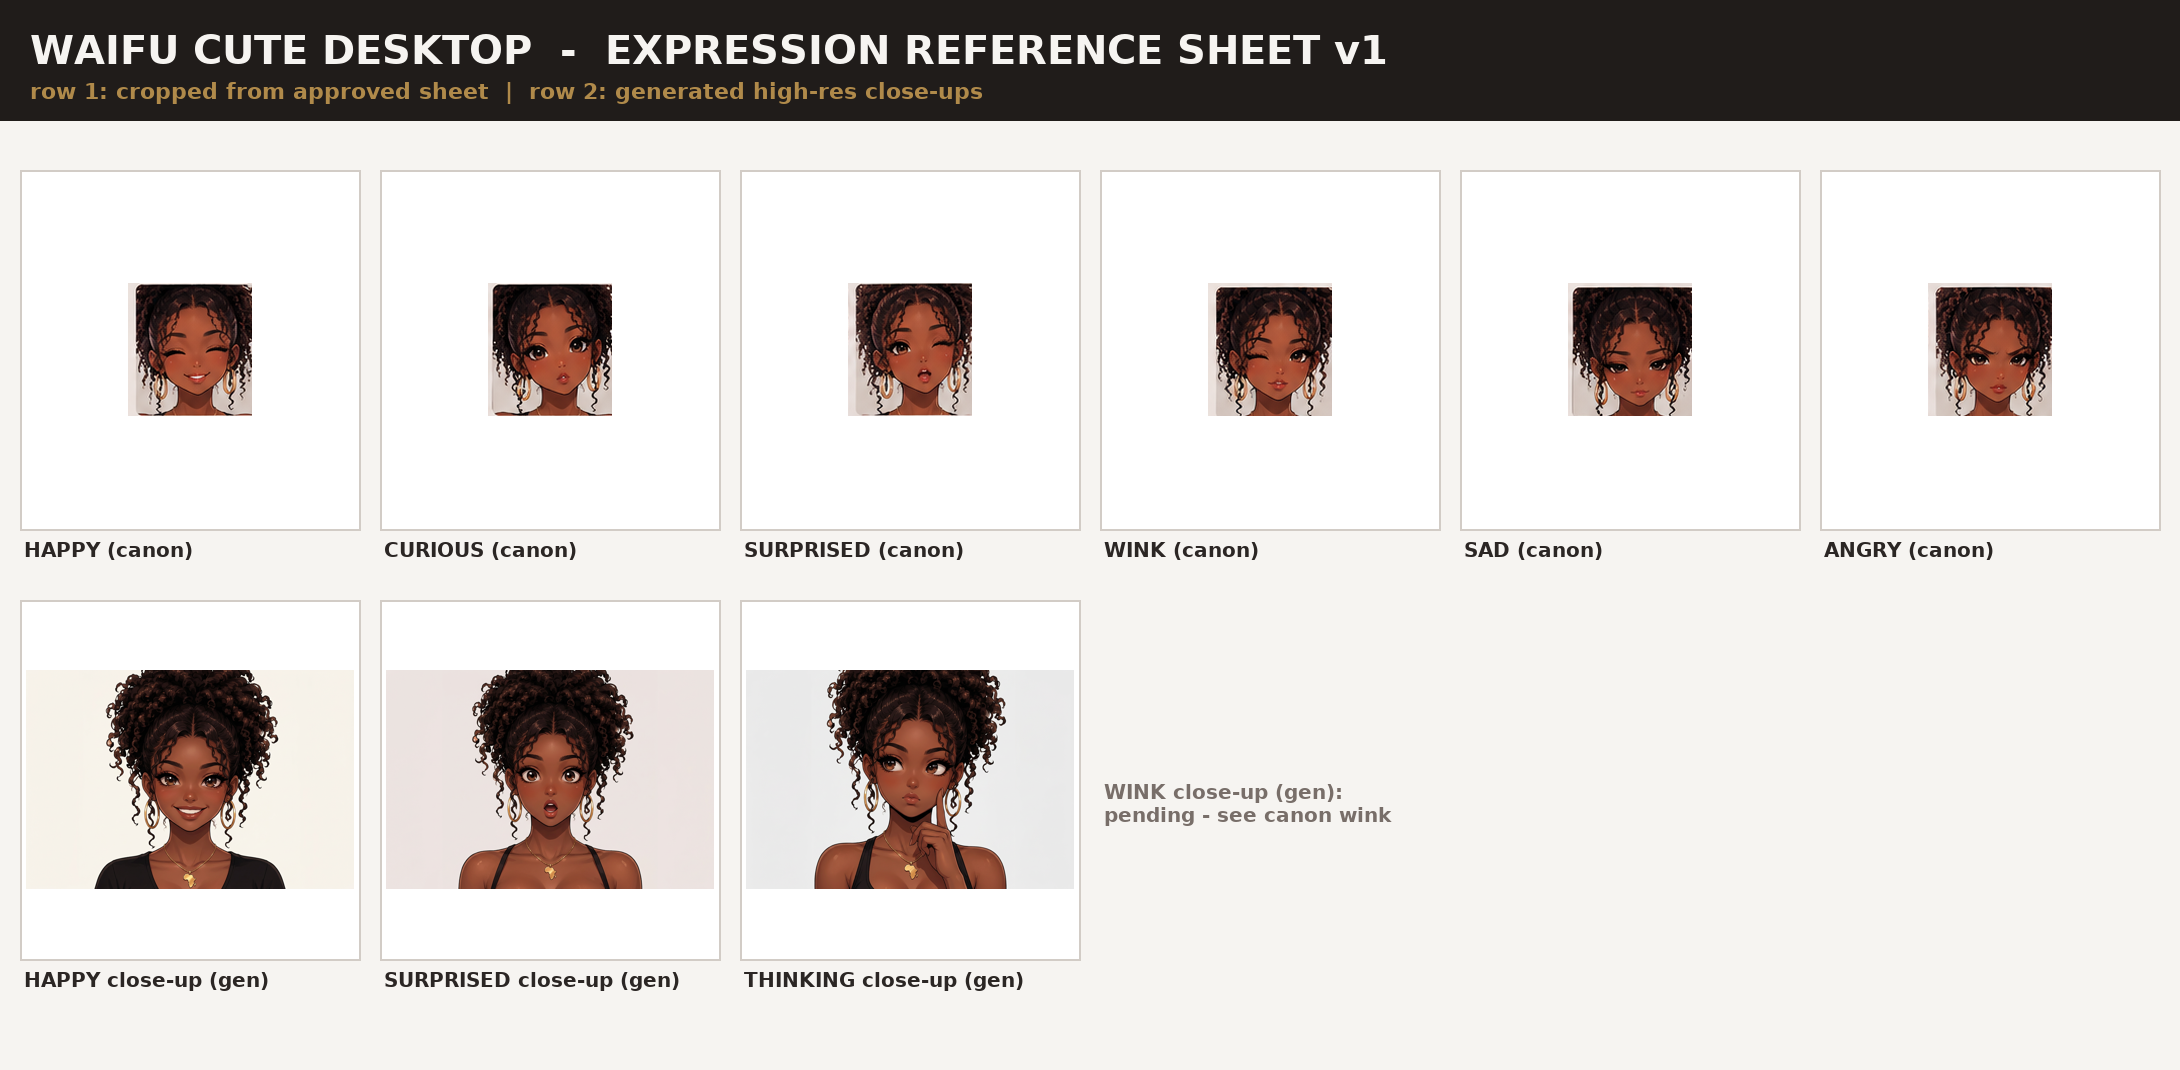
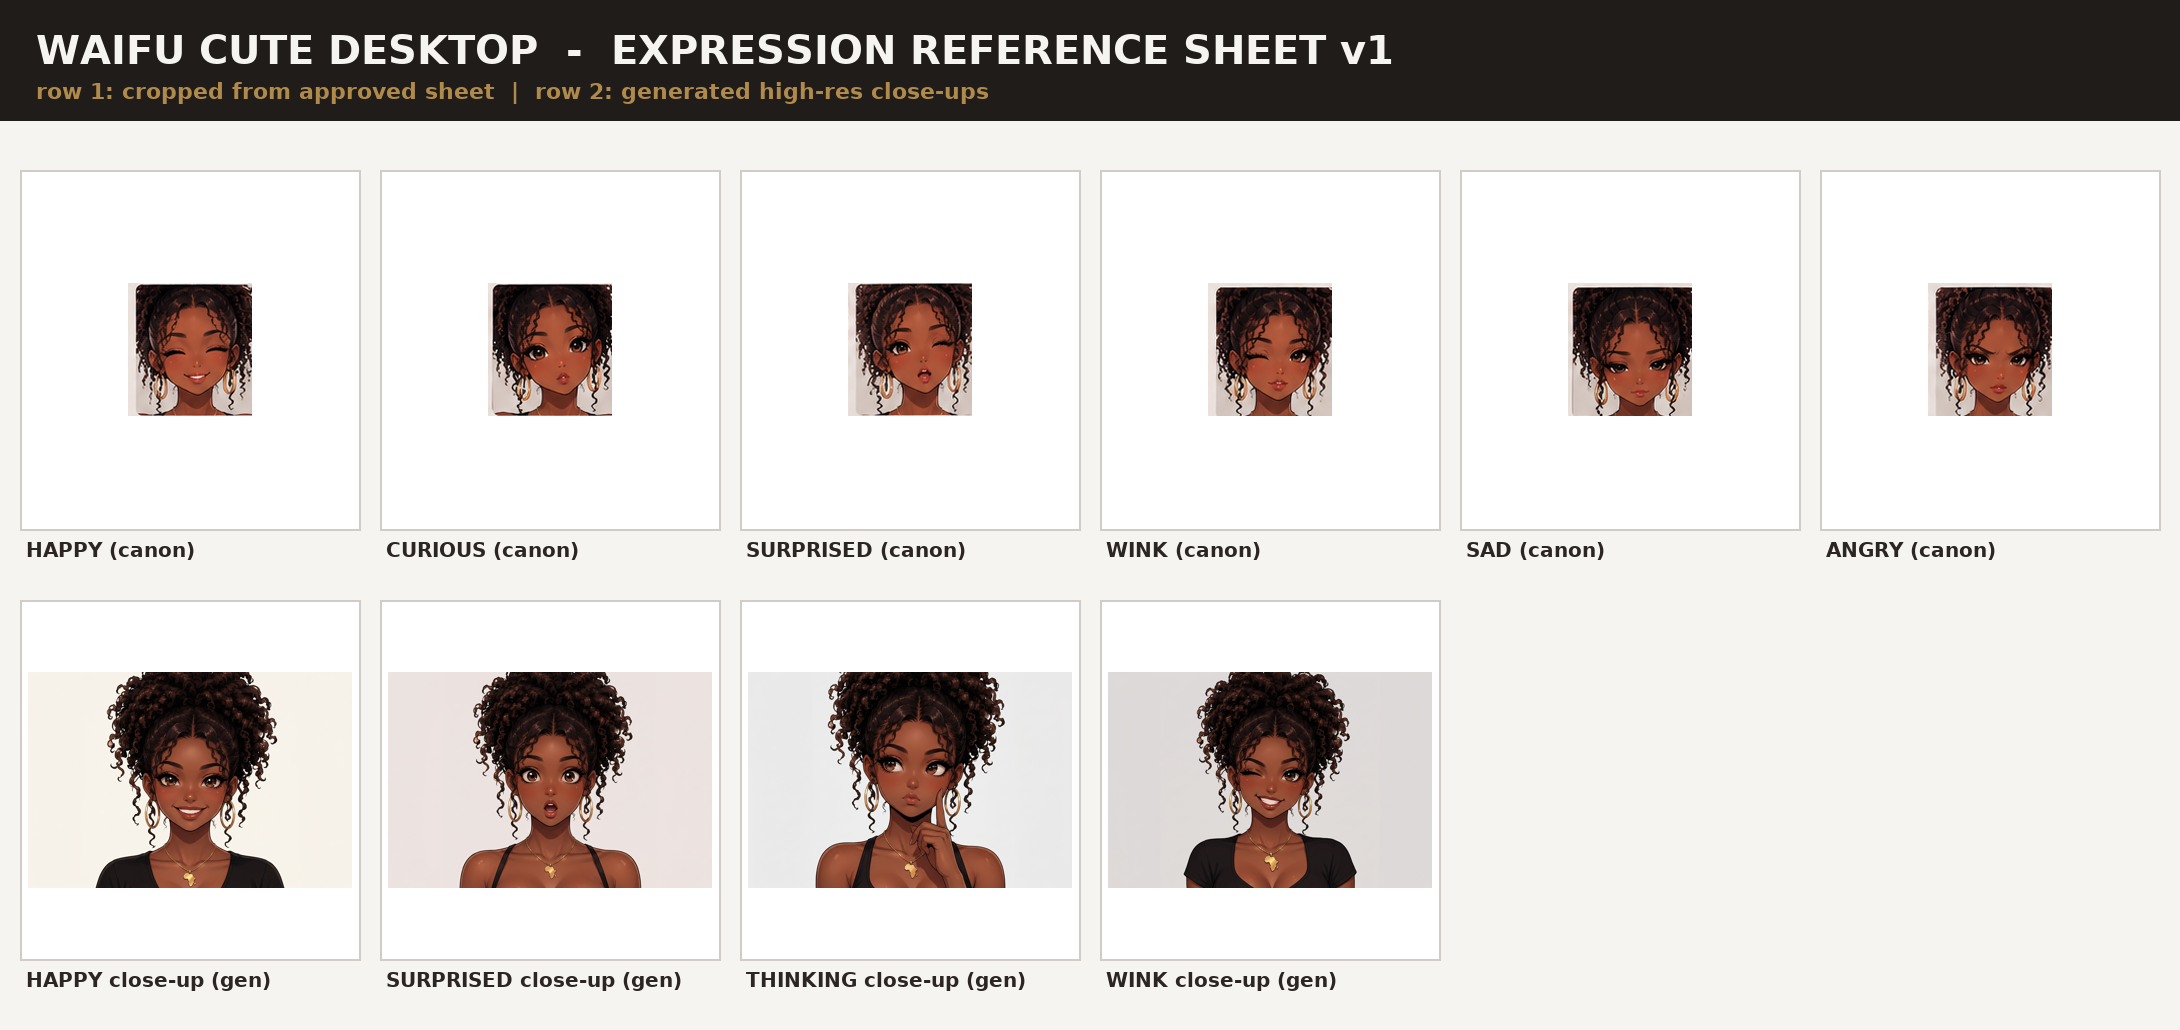
Expressions v2: high-res wink close-up, A/I/U/E/O viseme art references, unified sheet composer
- expression_wink_closeup.png completes the four high-res close-ups
- viseme_A/I/U/E/O.png + viseme_reference_sheet.png: mouth-shape art guidance for the talk animation (rig visemes remain Editor work)
- tools/compose_sheets.py now builds pose, expression and viseme sheets
- docs/README/validator updated; validation report regenerated (PASS)

diff --git a/tools/compose_sheets.py b/tools/compose_sheets.py
@@ -1,5 +1,10 @@
-"""Compose the combined pose reference sheet from the six isolated pose PNGs.
-Usage: python3 tools/compose_sheets.py   (run from repo root)"""
+"""Compose the combined reference sheets of the character package.
+Usage: python3 tools/compose_sheets.py   (run from repo root)
+Builds:
+  poses/pose_reference_sheet.png          - six full-body poses, 3x2 grid
+  expressions/expression_reference_sheet.png - canon crops + high-res close-ups
+  expressions/viseme_reference_sheet.png  - A/I/U/E/O mouth-shape art references
+"""
 from PIL import Image, ImageDraw, ImageFont
 import numpy as np, os
 
@@ -17,23 +22,73 @@ def get_font(sz):
             return ImageFont.truetype(p, sz)
     return ImageFont.load_default()
 
-BG=(246,244,241); INK=(43,38,36); ACC=(176,138,74)
-poses=[("poses/pose_01_neutral.png","1 NEUTRAL"),("poses/pose_02_happy.png","2 HAPPY"),
-       ("poses/pose_03_thinking.png","3 THINKING"),("poses/pose_04_waving.png","4 WAVING"),
-       ("poses/pose_05_surprised.png","5 SURPRISED"),("poses/pose_06_playful.png","6 PLAYFUL")]
-CW,CH,CAP=620,930,54
-cols,rows=3,2
-W=cols*CW+(cols+1)*24; H=150+rows*(CH+CAP)+(rows+1)*24
-sheet=Image.new("RGB",(W,H),BG); d=ImageDraw.Draw(sheet)
-d.rectangle([0,0,W,120],fill=(32,28,26))
-d.text((36,26),"WAIFU CUTE DESKTOP  -  FULL-BODY POSE REFERENCE SHEET v1",font=get_font(40),fill=(246,244,241))
-d.text((36,78),"canonical character - six animation reference poses - same identity in every pose",font=get_font(22),fill=ACC)
-for i,(p,label) in enumerate(poses):
-    im=Image.open(p).convert("RGB").crop(fig_bbox(Image.open(p)))
-    im.thumbnail((CW-16,CH-16))
-    cx=24+(i%cols)*(CW+24); cy=150+24+(i//cols)*(CH+CAP+24)
-    d.rectangle([cx,cy,cx+CW,cy+CH],fill=(255,255,255),outline=(210,204,198),width=2)
-    sheet.paste(im,(cx+(CW-im.width)//2, cy+(CH-im.height)//2))
-    d.text((cx+8,cy+CH+12),label,font=get_font(30),fill=INK)
-sheet.save("poses/pose_reference_sheet.png")
-print("pose sheet rebuilt:", sheet.size)
+BG=(246,244,241); INK=(43,38,36); ACC=(176,138,74); HDR=(32,28,26)
+
+def header(sheet, d, title, subtitle):
+    d.rectangle([0, 0, sheet.width, 120], fill=HDR)
+    d.text((36, 26), title, font=get_font(40), fill=(246,244,241))
+    d.text((36, 78), subtitle, font=get_font(22), fill=ACC)
+
+def place_row(sheet, d, items, cy, CW, CH, label_sz=20):
+    for i, (p, label) in enumerate(items):
+        im = Image.open(p).convert("RGB")
+        if label.startswith(("1 ", "2 ", "3 ", "4 ", "5 ", "6 ")):
+            im = im.crop(fig_bbox(im))
+        im.thumbnail((CW-16, CH-16))
+        cx = 20 + i*(CW+20)
+        d.rectangle([cx, cy, cx+CW, cy+CH], fill=(255,255,255), outline=(210,204,198), width=2)
+        sheet.paste(im, (cx+(CW-im.width)//2, cy+(CH-im.height)//2))
+        d.text((cx+6, cy+CH+8), label, font=get_font(label_sz), fill=INK)
+
+def compose_pose_sheet():
+    poses = [("poses/pose_01_neutral.png","1 NEUTRAL"),("poses/pose_02_happy.png","2 HAPPY"),
+             ("poses/pose_03_thinking.png","3 THINKING"),("poses/pose_04_waving.png","4 WAVING"),
+             ("poses/pose_05_surprised.png","5 SURPRISED"),("poses/pose_06_playful.png","6 PLAYFUL")]
+    CW,CH,CAP = 620,930,54
+    cols,rows = 3,2
+    W = cols*CW+(cols+1)*24; H = 150+rows*(CH+CAP)+(rows+1)*24
+    sheet = Image.new("RGB",(W,H),BG); d = ImageDraw.Draw(sheet)
+    header(sheet, d, "WAIFU CUTE DESKTOP  -  FULL-BODY POSE REFERENCE SHEET v1",
+           "canonical character - six animation reference poses - same identity in every pose")
+    for i,(p,label) in enumerate(poses):
+        im = Image.open(p).convert("RGB").crop(fig_bbox(Image.open(p)))
+        im.thumbnail((CW-16,CH-16))
+        cx = 24+(i%cols)*(CW+24); cy = 150+24+(i//cols)*(CH+CAP+24)
+        d.rectangle([cx,cy,cx+CW,cy+CH],fill=(255,255,255),outline=(210,204,198),width=2)
+        sheet.paste(im,(cx+(CW-im.width)//2, cy+(CH-im.height)//2))
+        d.text((cx+8,cy+CH+12),label,font=get_font(30),fill=INK)
+    sheet.save("poses/pose_reference_sheet.png"); print("pose sheet:", sheet.size)
+
+def compose_expression_sheet():
+    canon = [("expressions/canon_happy.png","HAPPY (canon)"),("expressions/canon_curious.png","CURIOUS (canon)"),
+             ("expressions/canon_surprised.png","SURPRISED (canon)"),("expressions/canon_wink.png","WINK (canon)"),
+             ("expressions/canon_sad.png","SAD (canon)"),("expressions/canon_angry.png","ANGRY (canon)")]
+    close = [("expressions/expression_happy_closeup.png","HAPPY close-up (gen)"),
+             ("expressions/expression_surprised_closeup.png","SURPRISED close-up (gen)"),
+             ("expressions/expression_thinking_closeup.png","THINKING close-up (gen)"),
+             ("expressions/expression_wink_closeup.png","WINK close-up (gen)")]
+    EW,EH = 340,360
+    W = 6*EW+7*20; H = 150+2*(EH+50)+3*20
+    sheet = Image.new("RGB",(W,H),BG); d = ImageDraw.Draw(sheet)
+    header(sheet, d, "WAIFU CUTE DESKTOP  -  EXPRESSION REFERENCE SHEET v1",
+           "row 1: cropped from approved sheet  |  row 2: generated high-res close-ups")
+    place_row(sheet, d, canon, 170, EW, EH)
+    place_row(sheet, d, close, 170+(EH+50)+20, EW, EH)
+    sheet.save("expressions/expression_reference_sheet.png"); print("expression sheet:", sheet.size)
+
+def compose_viseme_sheet():
+    vis = [("expressions/viseme_A.png","A  -  open ah"),("expressions/viseme_I.png","I  -  wide ee"),
+           ("expressions/viseme_U.png","U  -  pursed oo"),("expressions/viseme_E.png","E  -  half eh"),
+           ("expressions/viseme_O.png","O  -  round oh")]
+    EW,EH = 340,360
+    W = 5*EW+6*20; H = 150+(EH+50)+60
+    sheet = Image.new("RGB",(W,H),BG); d = ImageDraw.Draw(sheet)
+    header(sheet, d, "WAIFU CUTE DESKTOP  -  MOUTH SHAPE (VISEME) REFERENCE v1",
+           "art guidance for the talk animation - rig visemes are authored in Live2D Cubism Editor")
+    place_row(sheet, d, vis, 170, EW, EH)
+    sheet.save("expressions/viseme_reference_sheet.png"); print("viseme sheet:", sheet.size)
+
+if __name__ == "__main__":
+    compose_pose_sheet()
+    compose_expression_sheet()
+    compose_viseme_sheet()

diff --git a/tools/validate_package.py b/tools/validate_package.py
@@ -14,7 +14,10 @@ REQUIRED_FILES = [
     "expressions/canon_happy.png", "expressions/canon_curious.png", "expressions/canon_surprised.png",
     "expressions/canon_wink.png", "expressions/canon_sad.png", "expressions/canon_angry.png",
     "expressions/expression_happy_closeup.png", "expressions/expression_surprised_closeup.png",
-    "expressions/expression_thinking_closeup.png", "expressions/expression_reference_sheet.png",
+    "expressions/expression_thinking_closeup.png", "expressions/expression_wink_closeup.png",
+    "expressions/viseme_A.png", "expressions/viseme_I.png", "expressions/viseme_U.png",
+    "expressions/viseme_E.png", "expressions/viseme_O.png",
+    "expressions/expression_reference_sheet.png", "expressions/viseme_reference_sheet.png",
     "layers/parts_manifest.json", "layers/color_palette.json", "layers/waifu_companion_scaffold.psd",
     "layers/PARTS_INVENTORY.md",
     "animations/ANIMATION_SPEC.md", "animations/animations.json",

diff --git a/docs/LIMITATIONS.md b/docs/LIMITATIONS.md
@@ -12,10 +12,12 @@ and what is **not done / manual**. Re-verify any time with `python3 tools/valida
 6. Animation specification for 12 animations (markdown + JSON) with parts, start/end, duration, loop, trigger.
 7. Live2D preparation docs: part tree, parameter plan, pipeline; license review with sources.
 8. Reproducible tooling in `tools/`.
+9. High-res **wink close-up** (completing the four close-ups) and five **viseme mouth-shape
+   art references** (A/I/U/E/O) with a combined viseme sheet.
 
 ## Partial
-1. **Wink high-res close-up**: generation hit the per-turn image limit; `expressions/canon_wink.png`
-   (crop from the approved sheet) is the interim reference. Regenerate next session and drop it into `expressions/`.
+1. **Viseme references are art guidance only**: `expressions/viseme_*.png` illustrate A/I/U/E/O
+   on her face; rig-quality mouth meshes and `.motion3.json` talk curves are still authored in Cubism Editor.
 2. **Layer separation**: the PSD is a scaffold of rectangular crops — no alpha mattes, no hidden-area
    completion, groups not sub-divided (eyes/lids/brows/mouth interior, arm chains, curl groups). See `layers/PARTS_INVENTORY.md`.
 3. **Poses 02–04 provenance**: original generations contained duplicate figures; the shipped poses are

diff --git a/docs/VALIDATION_REPORT.md b/docs/VALIDATION_REPORT.md
@@ -1,6 +1,6 @@
 # Validation Report — Stage E
 
-Generated: 2026-11-06T07:12:09+00:00  
+Generated: 2026-11-06T07:33:08+00:00  
 Result: **PASS**
 
 | Deliverable | Size | Detail |
@@ -24,7 +24,14 @@ Result: **PASS**
 | expressions/expression_happy_closeup.png | 1463 KB | 1264x843 RGB |
 | expressions/expression_surprised_closeup.png | 1464 KB | 1264x843 RGB |
 | expressions/expression_thinking_closeup.png | 1528 KB | 1264x843 RGB |
-| expressions/expression_reference_sheet.png | 500 KB | 2180x1070 RGB |
+| expressions/expression_wink_closeup.png | 1404 KB | 1264x843 RGB |
+| expressions/viseme_A.png | 1296 KB | 1264x843 RGB |
+| expressions/viseme_I.png | 1477 KB | 1264x843 RGB |
+| expressions/viseme_U.png | 1519 KB | 1264x843 RGB |
+| expressions/viseme_E.png | 1516 KB | 1264x843 RGB |
+| expressions/viseme_O.png | 1530 KB | 1264x843 RGB |
+| expressions/expression_reference_sheet.png | 560 KB | 2180x1030 RGB |
+| expressions/viseme_reference_sheet.png | 395 KB | 1820x620 RGB |
 | layers/parts_manifest.json | 3 KB | json ok |
 | layers/color_palette.json | 0 KB | json ok |
 | layers/waifu_companion_scaffold.psd | 5068 KB |  |

diff --git a/README.md b/README.md
@@ -17,7 +17,7 @@ animated desktop companion on Windows 11 (Tauri 2 + React + TypeScript + Live2D 
 |---|---|---|
 | `references/` | The three approved original reference images (+ small QA crops) | ✅ complete (canon) |
 | `poses/` | Six full-body pose illustrations + combined `pose_reference_sheet.png` | ✅ complete |
-| `expressions/` | 6 canon expression crops, 3 generated high-res close-ups, combined sheet | ⚠ partial (wink close-up pending) |
+| `expressions/` | 6 canon expression crops, 4 generated high-res close-ups (incl. wink), 5 viseme mouth-shape references, combined sheets | ✅ complete |
 | `layers/` | 14 part crops, `parts_manifest.json`, sampled `color_palette.json`, layered `waifu_companion_scaffold.psd` | ⚠ scaffold only — not cut/matted art |
 | `animations/` | `ANIMATION_SPEC.md` + machine-readable `animations.json` (12 animations) | ✅ spec complete (no motion files — by design, see limitations) |
 | `live2d/` | `LIVE2D_PREPARATION.md` (parts tree, parameters, pipeline) + `LICENSE_REVIEW.md` | ✅ docs complete (rigging = manual, Cubism Editor) |

diff --git a/docs/CHARACTER_DESIGN.md b/docs/CHARACTER_DESIGN.md
@@ -48,8 +48,10 @@ Machine-readable: `layers/color_palette.json`.
 
 Approved expression set (from `ref_sheet_a` grid, cropped in `expressions/canon_*.png`):
 **happy, curious, surprised, wink, sad, angry.** High-res generated close-ups v1:
-**happy, surprised, thinking** (`expressions/expression_*_closeup.png`).
-Combined view: `expressions/expression_reference_sheet.png`.
+**happy, surprised, thinking, wink** (`expressions/expression_*_closeup.png`).
+Mouth-shape art references for the talk animation: `expressions/viseme_[A I U E O].png` +
+`expressions/viseme_reference_sheet.png` (guidance art only — rig visemes are authored
+in Cubism Editor). Combined view: `expressions/expression_reference_sheet.png`.
 
 ## 5. Pose canon (six animation reference poses)
 

diff --git a/animations/ANIMATION_SPEC.md b/animations/ANIMATION_SPEC.md
@@ -66,6 +66,8 @@ Parameter naming follows Live2D Cubism conventions (`ParamAngleX/Y/Z`, `ParamEye
 - **Duration:** = utterance length.
 - **Loop:** no; streams while audio plays.
 - **Trigger:** TTS playback events (per-phoneme timestamps from the voice pipeline).
+- **Art reference:** `expressions/viseme_reference_sheet.png` (A/I/U/E/O on her face);
+  rig-quality viseme meshes and motion curves remain Cubism Editor work.
 
 ### 9. wave
 - **Parts:** right upper arm, forearm, hand, jacket sleeve R (follow), head tilt +4°, smile +0.4.
